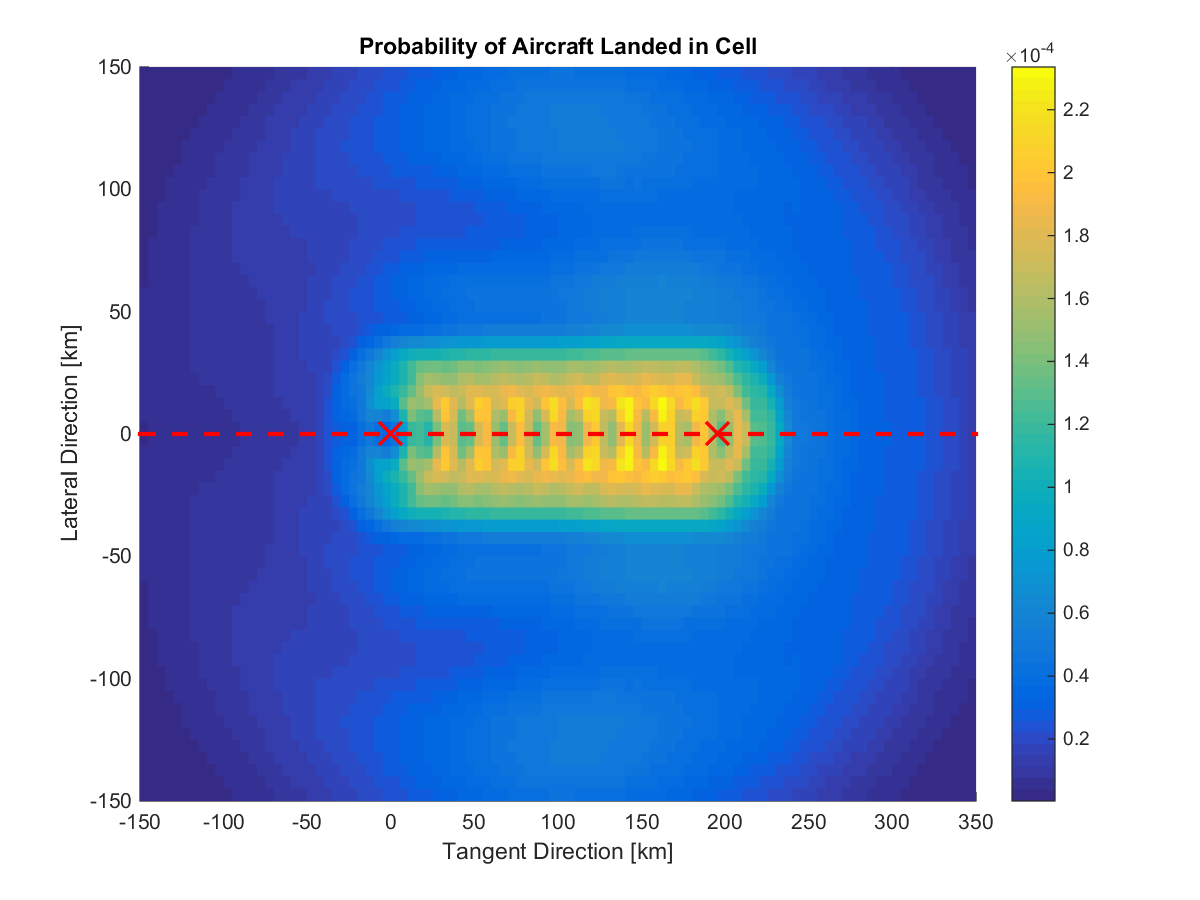
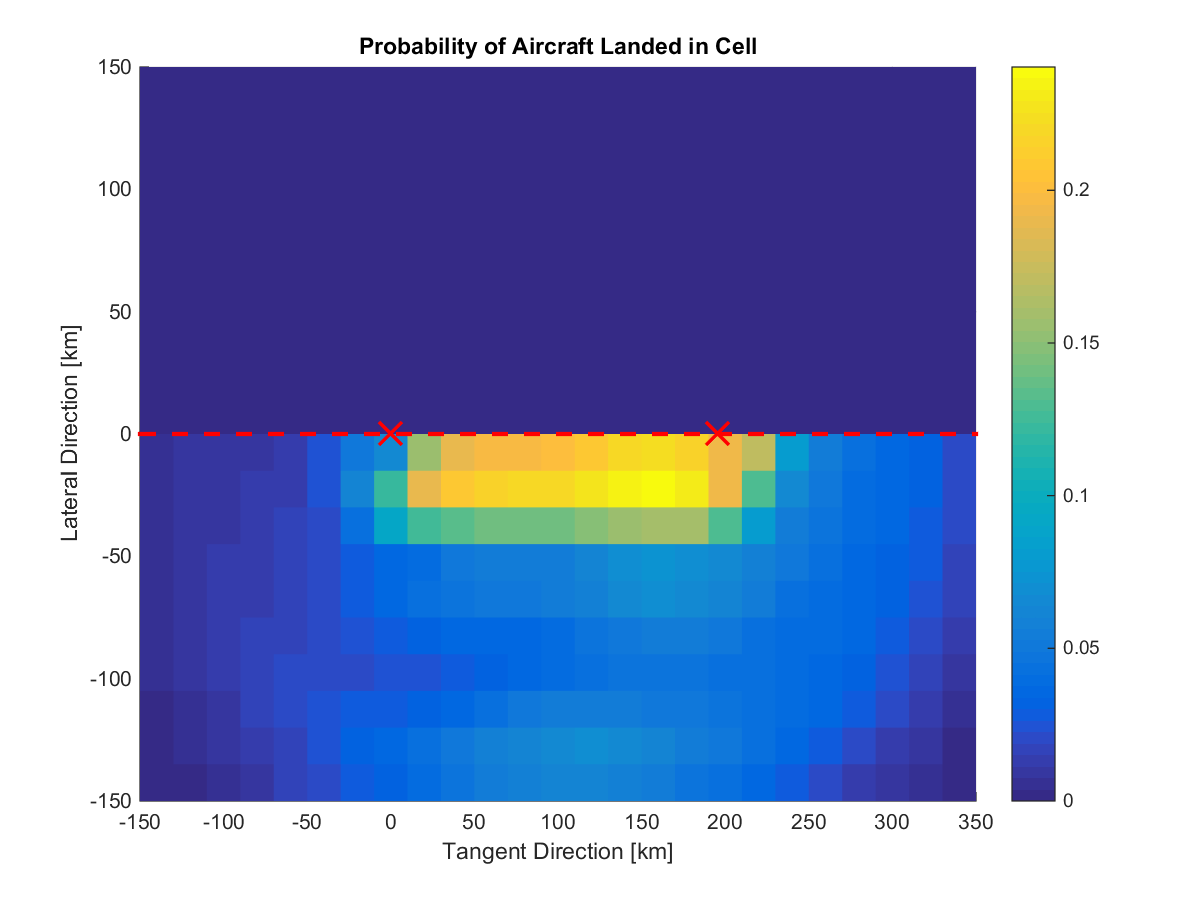
new commit

diff --git a/simulation/main.m b/simulation/main.m
@@ -43,10 +43,12 @@ rint = AC.Vc*interval; %m
 % probability resolution
 Nrtil = 1e1; %m
 % grid resolution
-N1grid = 100;
-N2grid = 60;
-% # of 1D quadrature points
-Nquad = 3;
+% N1grid = 100;
+% N2grid = 60;
+N1grid = 25;
+N2grid = 20;
+% # of 1D quadrature points (use even number for symm)
+Nquad = 2;
 % boundary distance [-x1 +x1 -x2 +x2]
 bdry = [-150 350 -150 150]*1e3; %m
 % reverse probability
@@ -73,14 +75,13 @@ figure();
 [a,b]=ksdensity(Rprofile);
 plot(b,a)
 
-%% continuous probability at x (vector)
+%% continuous probability at x=(x1,x2)
 rtil = linspace(0,rint,Nrtil);
 Rtil = @(rtil,x) norm(x-[rtil;0]);
 theta = @(rtil,x) abs(atan2(x(2),x(1)-rtil));
 ptheta = @(rtil,x) q+theta(rtil,x)*(s-q)/pi;
 pdfx = @(rtil,x) ksdensity(Rprofile,Rtil(rtil,x))*ptheta(rtil,x);
-%% discritized probability at cell (m,n)
-
+%% discritized probability at cell (eu,ev)
 
 % pre-compute gauss-legendre points and weights
 [u,wu] = gaussquad(Nquad);
@@ -94,10 +95,13 @@ Agrid = (bdry(2)-bdry(1))*(bdry(4)-bdry(3)); %m2
 S = Surface(N1grid,N2grid,bdry);
 P = zeros(S.numelements);
 
-for ev=1:1:S.numelements(2)
-    for eu=1:1:S.numelements(1)
-        for l=1:1:Nquad
-            for k=1:1:Nquad
+%% heavy loops
+% note the vertical symmetry!!!
+wv = wv*2;
+for ev=1:S.numelements(2)/2
+    for eu=1:S.numelements(1)
+        for l=1:Nquad/2
+            for k=1:Nquad
                 % pullback quadrature pts coordinate 
                 [x,y] = S.coords(eu,ev,Nu(:,k),Nv(:,l));
                 Ptemp = 0;
@@ -105,6 +109,7 @@ for ev=1:1:S.numelements(2)
                     Ptemp = Ptemp + pdfx(rtil(i),[x;y])*rint/Nrtil;
                 end
                 P(eu,ev) = P(eu,ev) + wu(k)*wv(l)*Ptemp;
+                P(eu,S.numelements(2)-ev+1) = P(eu,ev);
             end
         end
     end
@@ -133,9 +138,12 @@ N1drift = 25; N2drift = 20;
 PP = zeros(N1drift,N2drift);
 Sdrift = Surface(N1drift,N2drift,bdry);
 SdriftP = Surface(N1drift,N2drift,bdry/1e3);
+% scaling factors
+sc1 = N1grid/N1drift;
+sc2 = N2grid/N2drift;
 for i = 1:25
     for j = 1:20
-        PP(i,j) = sum(sum(P(4*i-3+(0:3),3*j-2+(0:2))));
+        PP(i,j) = sum(sum(P(sc1*i-sc1+(1:sc1),sc2*j-sc2+(1:sc2))));
     end
 end
 % update interval
